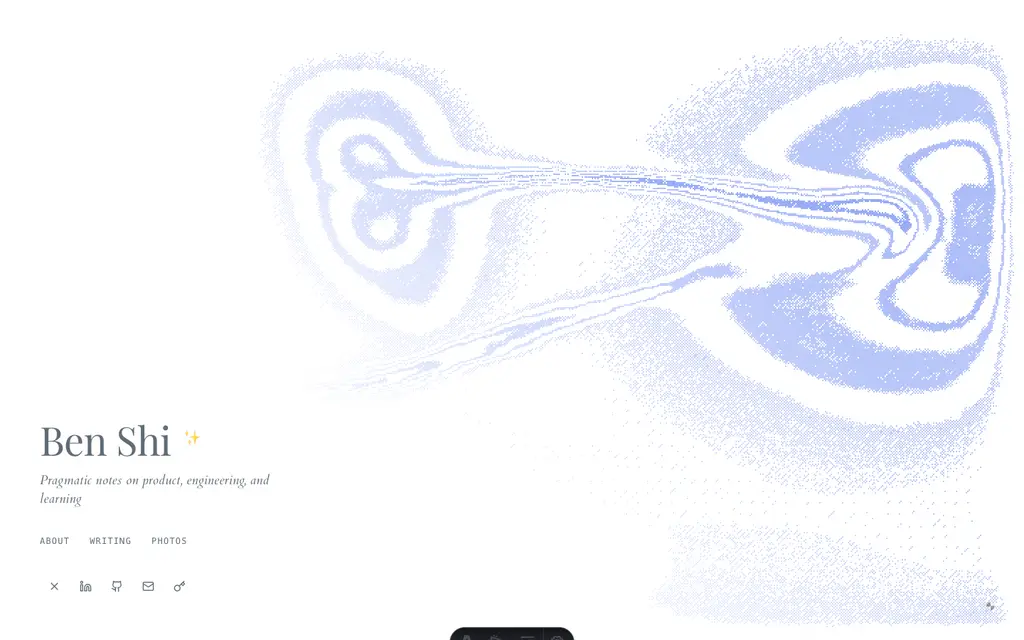
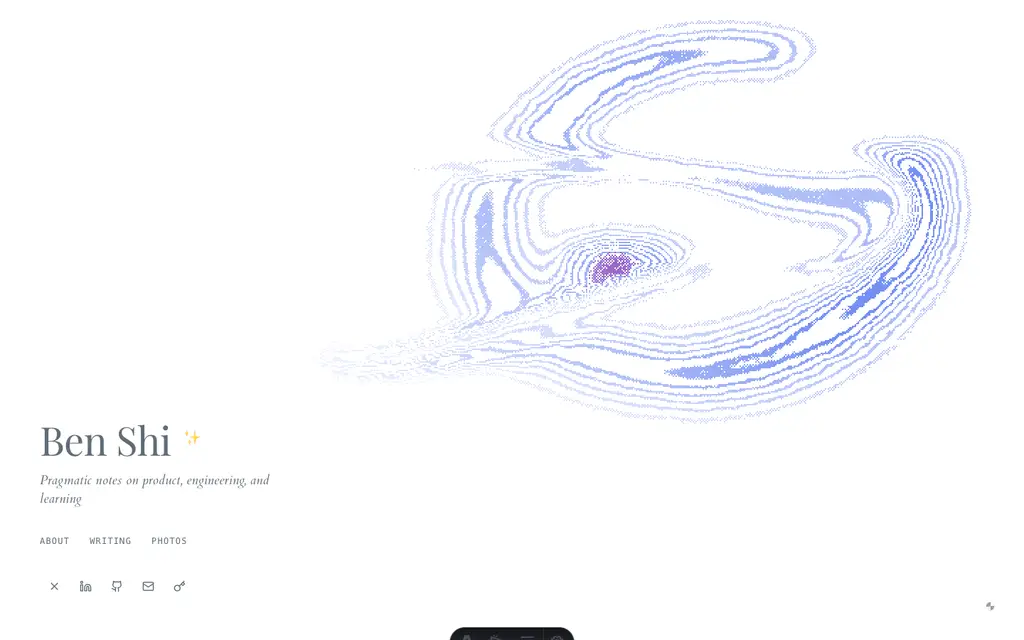
feat: the opening print is an enso brush circle
The seeded drops-and-stir composition read as generic marbling; the
page now opens on an authored artwork. One brush circle in the density
field: heavy landing, delicate thin sweep, pooled exit, an opening at
the upper right, washi-wobbled edges, and a small hanko seal on clear
paper inside the lower left. The stirring current is calmed to a
breath (24 steps, strength ~30x lower) so the circle stays readable
while its edges stay hand-made. Reduced-motion and CPU paths share
the same seed, so the frozen artwork is identical everywhere.

Changed region(s): [[0.2812, 0.0312, 1.0, 0.7812], [0.7188, 0.8438, 1.0, 0.9688]]

diff --git a/DESIGN.md b/DESIGN.md
@@ -135,10 +135,12 @@ the print's contour rings; UI geometry stays rectangular and quiet.
 
 The living suminagashi print: a 240×180 pigment density field advected by an 80×60 Navier–Stokes
 solver, rendered as contour-ring veins through an 8×8 Bayer halftone with fibre jitter, in theme
-inks. Loads as a deterministic composed print; pointer strokes drop wet ink (darker cores) that the
-water combs into veins; the field relaxes back to the frozen print (~11.5s half-life). Reduced
-motion and no-WebGL: the same print, static, painted by a CPU path sharing the density field and
-banding math. WebGL context loss degrades to transparent (paper shows through).
+inks. Loads as an ensō — one authored brush circle with an opening at the upper right, a heavy
+pooled landing, a delicate thin sweep, and a small hanko seal on clear paper inside the lower left;
+pointer strokes drop wet ink (darker cores) that the water combs into veins; the field relaxes back
+to the frozen print (~11.5s half-life). Reduced motion and no-WebGL: the same print, static, painted
+by a CPU path sharing the density field and banding math. WebGL context loss degrades to transparent
+(paper shows through).
 
 ## Do's and Don'ts
 
